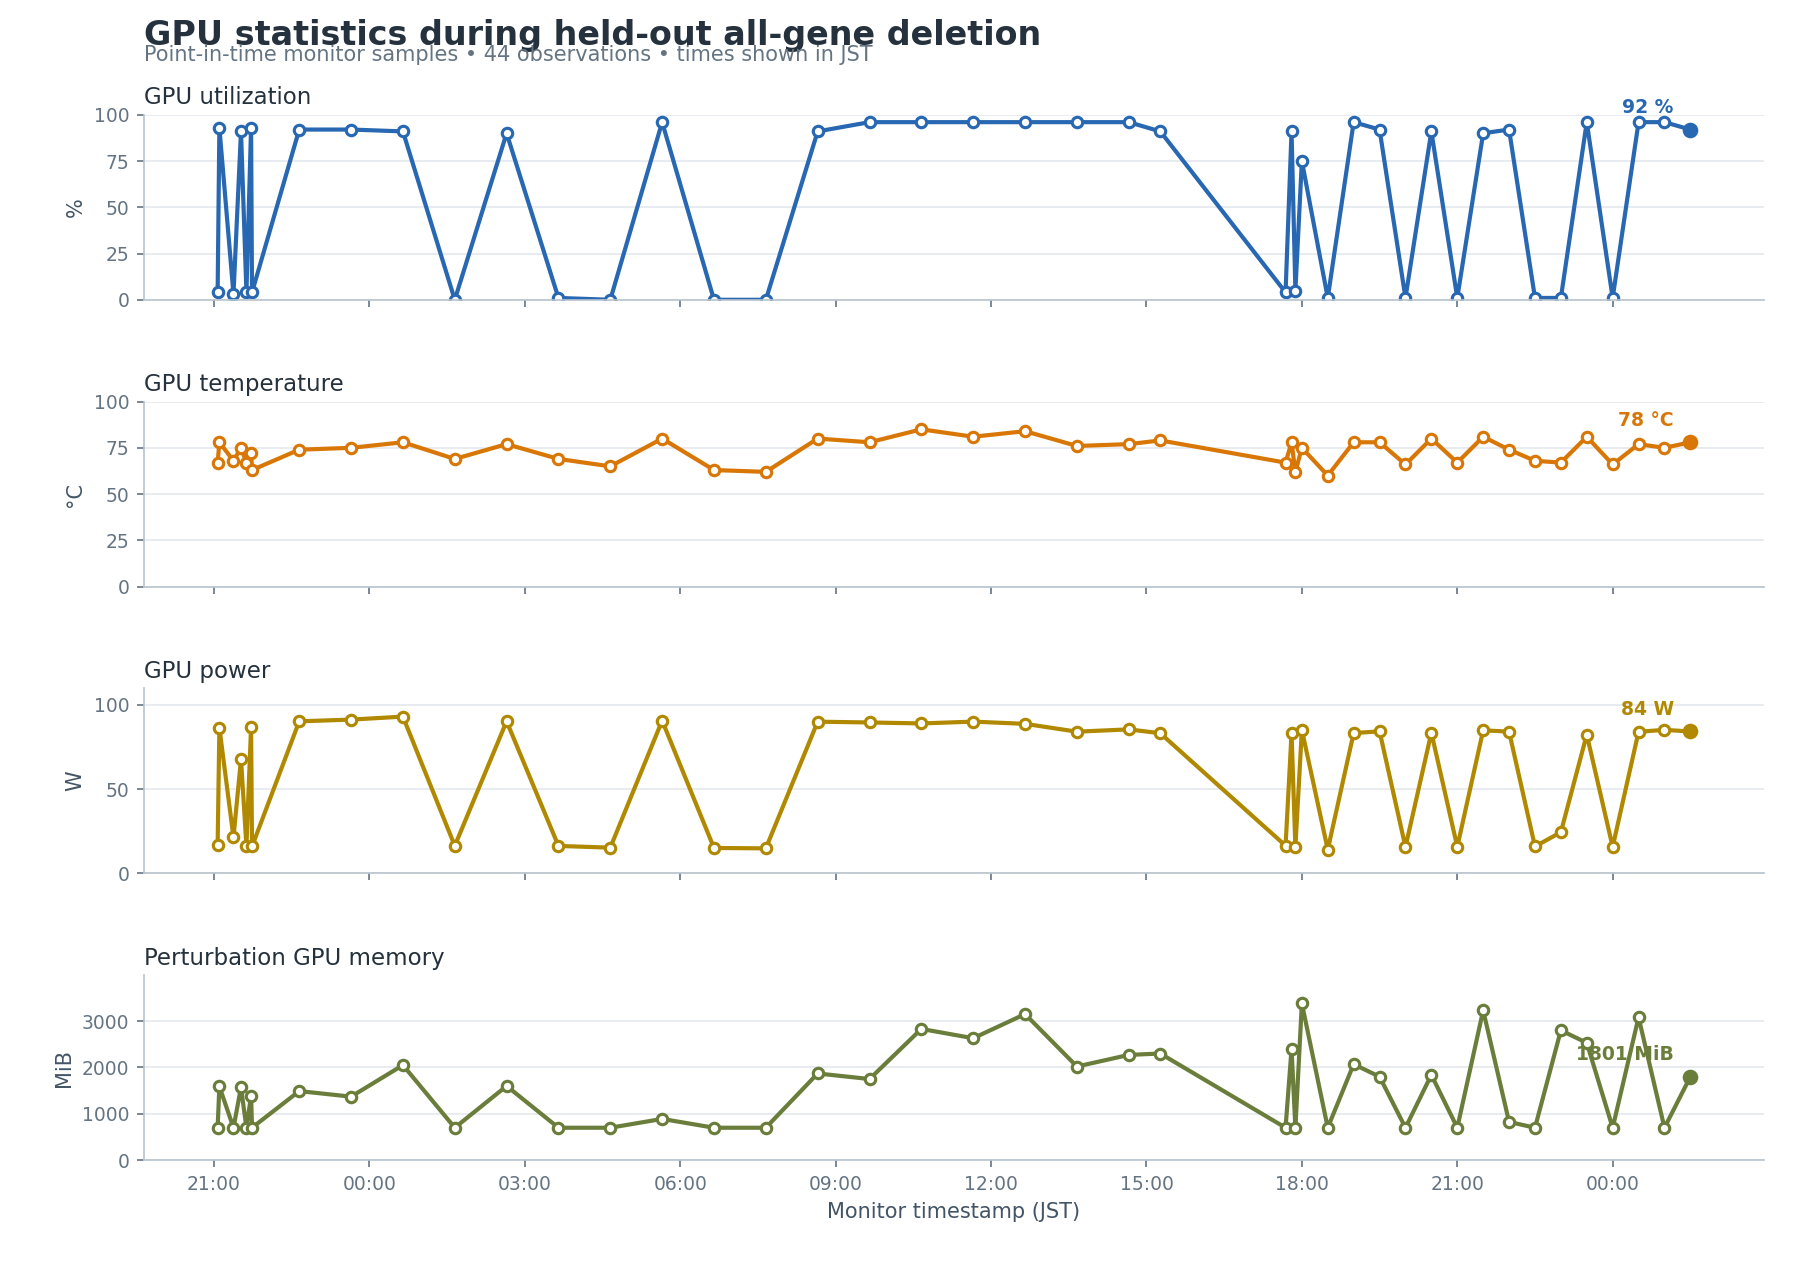
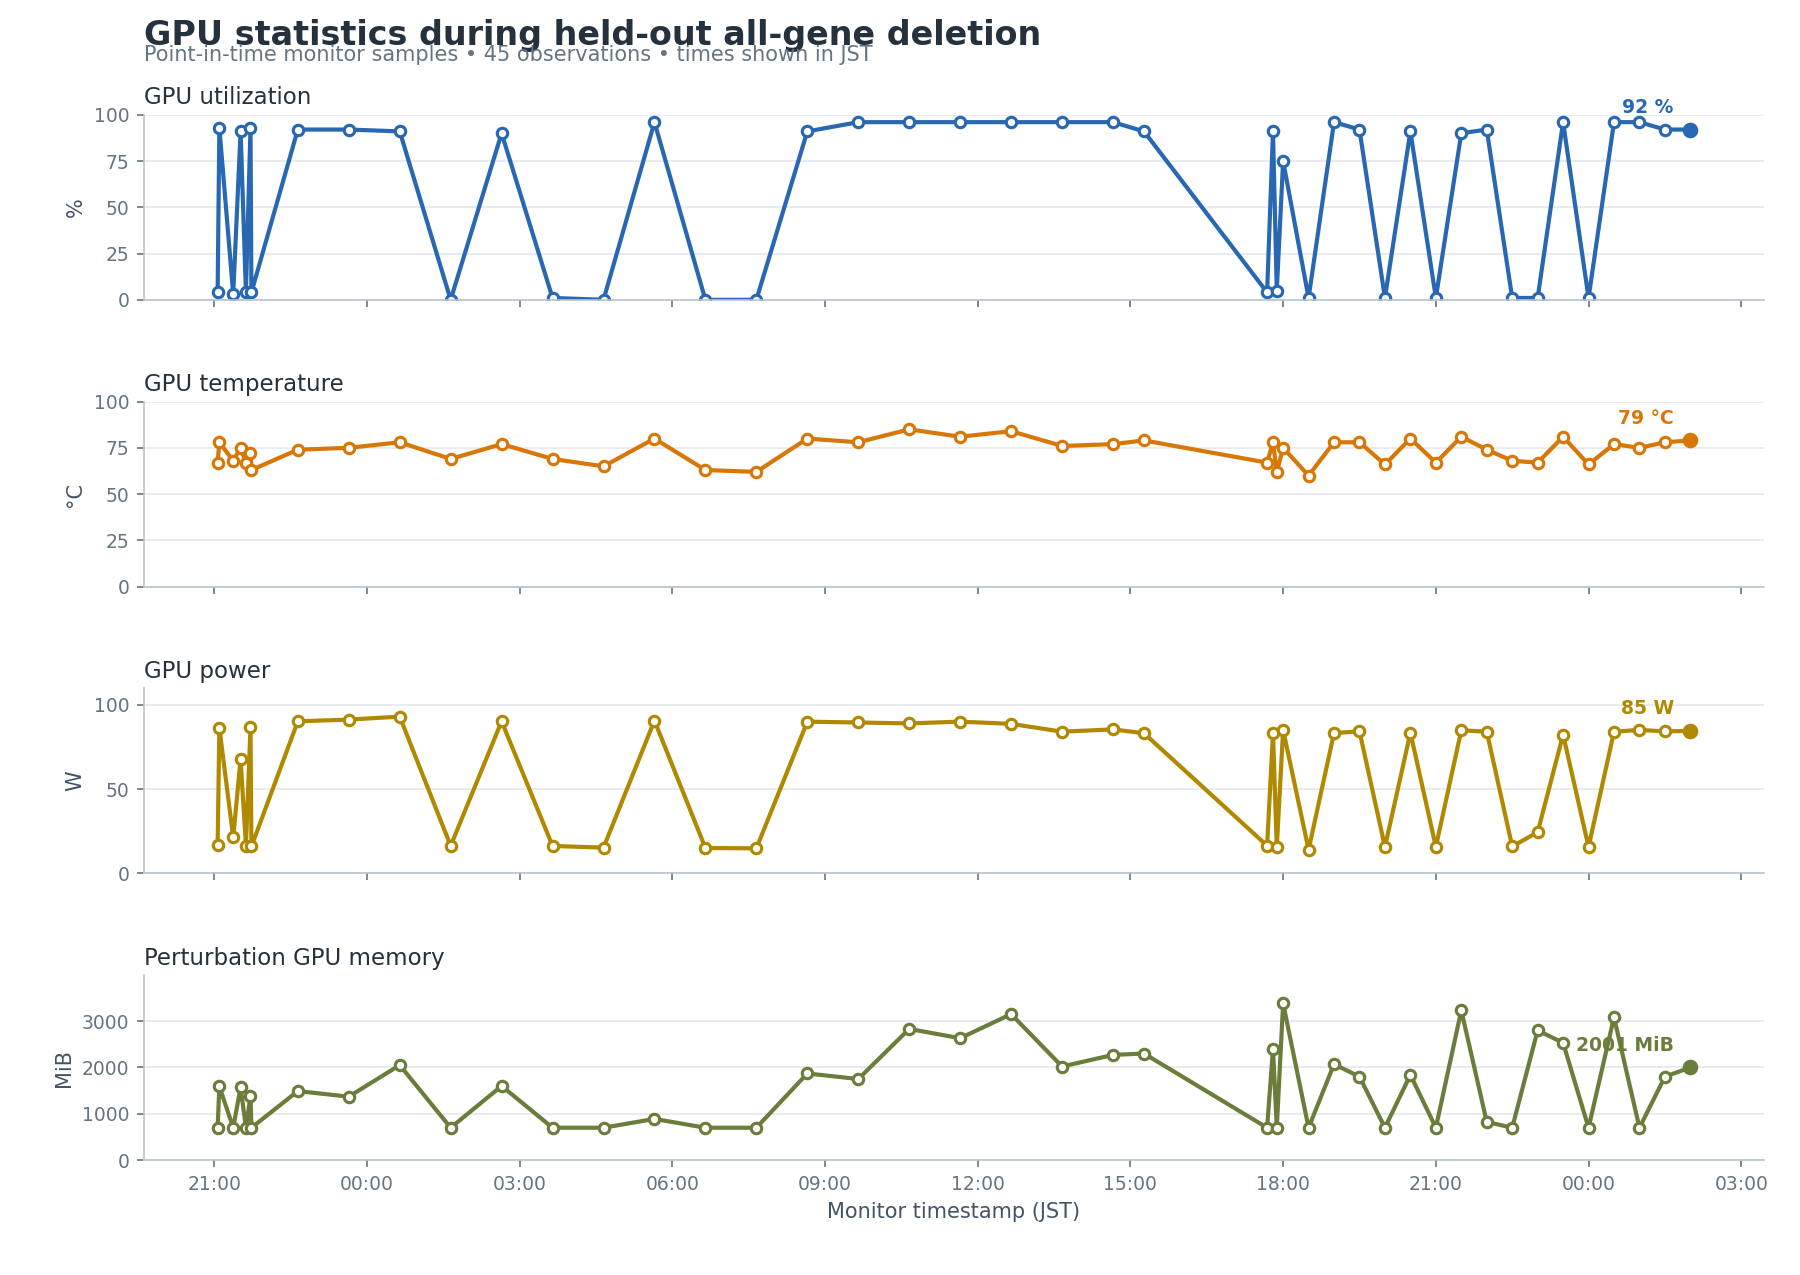
monitor: update perturbation status 2026-07-19 02:00 JST

diff --git a/current_workflow/monitoring/GPU_PROGRESS_REPORT.md b/current_workflow/monitoring/GPU_PROGRESS_REPORT.md
@@ -15,6 +15,7 @@ Newest refreshes are appended at the top and retained for the most recent
 48 runs.
 
 <!-- JOB_RUN_SUMMARIES_START -->
+- **2026-07-19T02:00:01+09:00** — RUNNING; 3,357 / 3,379 cells (99.35%). The run advanced by 50 cells and 2 shards, lifting completion from 97.87% to 99.35%. LUSC remained complete; LUAD remained complete; NORMAL moved from 1,336 to 1,386 cells; GPU utilization stayed at 92%.
 - **2026-07-19T01:30:01+09:00** — RUNNING; 3,307 / 3,379 cells (97.87%). The run advanced by 43 cells and 2 shards, lifting completion from 96.60% to 97.87%. LUSC remained complete; LUAD remained complete; NORMAL moved from 1,293 to 1,336 cells; GPU utilization fell from 96% to 92%.
 - **2026-07-19T01:00:01+09:00** — RUNNING; 3,264 / 3,379 cells (96.60%). The run advanced by 43 cells and 1 shards, lifting completion from 95.32% to 96.60%. LUSC remained complete; LUAD remained complete; NORMAL moved from 1,250 to 1,293 cells; GPU utilization stayed at 96%.
 - **2026-07-19T00:30:01+09:00** — RUNNING; 3,221 / 3,379 cells (95.32%). The run advanced by 55 cells and 3 shards, lifting completion from 93.70% to 95.32%. LUSC remained complete; LUAD remained complete; NORMAL moved from 1,195 to 1,250 cells; GPU utilization rose from 1% to 96%.
@@ -38,18 +39,18 @@ Newest refreshes are appended at the top and retained for the most recent
 
 ## Current snapshot
 
-**What changed since the prior report:** The run advanced by 43 cells and 2 shards, lifting completion from 96.60% to 97.87%. LUSC remained complete; LUAD remained complete; NORMAL moved from 1,293 to 1,336 cells; GPU utilization fell from 96% to 92%.
+**What changed since the prior report:** The run advanced by 50 cells and 2 shards, lifting completion from 97.87% to 99.35%. LUSC remained complete; LUAD remained complete; NORMAL moved from 1,336 to 1,386 cells; GPU utilization stayed at 92%.
 
 | Metric | Value |
 | --- | --- |
-| Generated | 2026-07-19T01:30:01+09:00 |
+| Generated | 2026-07-19T02:00:01+09:00 |
 | Run status | RUNNING |
-| Overall cell progress | 3,307 / 3,379 (97.87%) |
+| Overall cell progress | 3,357 / 3,379 (99.35%) |
 | GPU | NVIDIA GB10 |
 | GPU utilization | 92% |
-| GPU temperature | 78 C |
-| GPU power | 84.3 W |
-| Perturbation GPU memory | 1,801 MiB |
+| GPU temperature | 79 C |
+| GPU power | 84.6 W |
+| Perturbation GPU memory | 2,001 MiB |
 | System memory used | 39.8 GiB |
 | System memory available | 79.9 GiB |
 | Swap used | 0.0 GiB |
@@ -60,11 +61,11 @@ Newest refreshes are appended at the top and retained for the most recent
 | --- | --- | --- | --- | --- |
 | LUSC | 560 / 560 (100.00%) | 23 / 23 | 1,120 | 348,313 / 348,313 |
 | LUAD | 1,411 / 1,411 (100.00%) | 57 / 57 | 2,822 | 1,150,097 / 1,150,097 |
-| NORMAL | 1,336 / 1,408 (94.89%) | 53 / 57 | 2,690 | 1,356,809 / 1,439,366 |
+| NORMAL | 1,386 / 1,408 (98.44%) | 55 / 57 | 2,790 | 1,405,088 / 1,439,366 |
 
 ## Final statistical comparisons
 
-**0 / 6 comparisons are complete. Final aggregation waits for the deletion screen, currently 133 / 137 shards.**
+**0 / 6 comparisons are complete. Final aggregation waits for the deletion screen, currently 135 / 137 shards.**
 
 | Comparison | State | Result rows | Updated | Output |
 | --- | --- | --- | --- | --- |
@@ -89,6 +90,7 @@ The history table below shows the newest samples first.
 
 | Timestamp | Cells | Progress | GPU util | Temp | Power | Shards |
 | --- | --- | --- | --- | --- | --- | --- |
+| 2026-07-19T02:00:01+09:00 | 3,357 | 99.35% | 92% | 79 C | 84.6 W | 135 |
 | 2026-07-19T01:30:01+09:00 | 3,307 | 97.87% | 92% | 78 C | 84.3 W | 133 |
 | 2026-07-19T01:00:01+09:00 | 3,264 | 96.60% | 96% | 75 C | 85.2 W | 131 |
 | 2026-07-19T00:30:01+09:00 | 3,221 | 95.32% | 96% | 77 C | 84.1 W | 130 |
@@ -96,7 +98,6 @@ The history table below shows the newest samples first.
 | 2026-07-18T23:30:01+09:00 | 3,124 | 92.45% | 96% | 81 C | 82.4 W | 126 |
 | 2026-07-18T23:00:01+09:00 | 3,075 | 91.00% | 1% | 67 C | 24.5 W | 124 |
 | 2026-07-18T22:30:01+09:00 | 3,032 | 89.73% | 1% | 68 C | 16.0 W | 122 |
-| 2026-07-18T22:00:01+09:00 | 2,990 | 88.49% | 92% | 74 C | 84.2 W | 120 |
 
 ## Job notes
 
